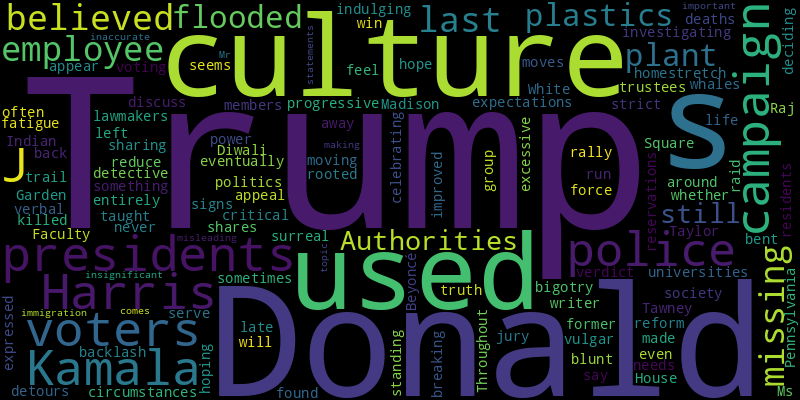
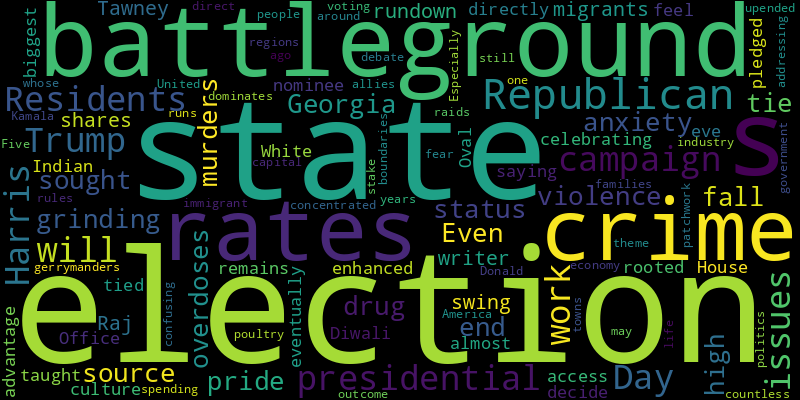
chore(bot): 👿 auto commit

diff --git a/README.md b/README.md
@@ -2,41 +2,41 @@
 Auto RSS New York Times and Generate Word Cloud
 
 ## New York Times Global News
+* Rights groups said that Reza Valizadeh, an Iranian-American journalist, was recently arrested in Iran, although the State Department did not confirm that he was the person detained.
+* The presidential candidates have expressed starkly contrasting visions for America’s role in the war, as well as the NATO alliance that serves as a shield against Russian aggression.
 * Canadian and U.S. accusations of assassination plots have drawn attention to the Sikh separatist movement, which India calls a source of organized crime.
-* As the country reels from a flood that has left at least 211 people dead, ordinary citizens have flocked to devastated areas to help clean, donate and rebuild.
+* As the country reels from a flood that has left at least 214 people dead, thousands have flocked to devastated areas to help. Anger toward public officials is growing.
 * A radio station in Poland fired its on-air talent and brought in A.I.-generated presenters. An outcry over a purported chat with a Nobel laureate quickly ended that experiment.
 * While Lebanese are united against Israel’s onslaught, some in southern towns where Hezbollah does not hold sway say they feel caught between Israel’s firepower and Hezbollah’s fighters.
 * His comments came as the Pentagon said it would send additional fighter jets and destroyers to the Middle East.
 * It appeared to be the deepest Israeli operation by sea and ground inside Lebanon during the current war.
 * A breakup of the divided and unpopular coalition well before elections set for next September could leave the country directionless at a critical time for Europe.
 * Ms. Badenoch is expected to move the party, now in the opposition, further to the right.
-* A lone voice on Mexico’s Supreme Court has proposed a way to ease the political tensions that have arisen over a judicial overhaul. But big obstacles could prevent any deal.
-* Some see the floods as an example of the effect of a changing climate that is making overwhelming downpours more common. Locals also say government warnings came too late.
 
 ![Global](./global.png)
 ## New York Times United States News
-* She is believed to be the last employee who was missing after the plastics plant flooded. Authorities are still investigating the circumstances around the deaths.
-* There are signs that society is moving away from the progressive left’s often strict expectations about how to discuss culture and politics.
-* Faculty members are used to sharing power with presidents and trustees to run universities. But some presidents and lawmakers have made moves to reduce their say.
+* Georgia’s status as a battleground state is a source of pride, but also of high anxiety at the end of a grinding election.
+* Even as violence crime rates fall, Republicans have sought to tie murders and drug overdoses to migrants. Here’s a rundown of crime rates in swing states.
 * The writer Raj Tawney shares how celebrating Diwali eventually taught him to feel more rooted in his Indian culture — and in himself.
-* In the campaign’s homestretch, whether because of fatigue or something else entirely, Donald Trump seems to be indulging in surreal, sometimes vulgar, verbal detours.
-* Kamala Harris is hoping that backlash to the bigotry at the Madison Square Garden rally will blunt Donald Trump’s appeal with a critical group of voters.
-* After a jury found that a former police detective used excessive force in the 2020 raid that killed Ms. Taylor, residents expressed both hope for police reform and reservations about the verdict.
-* Donald J. Trump has improved his standing in Pennsylvania even as late-deciding voters appear to be breaking for Kamala Harris.
-* Throughout his life, Donald J. Trump has bent the truth to serve his needs, never more so than on the campaign trail to win back the White House.
-* Beyoncé, whales, voting and immigration: For Mr. Trump, no topic is too insignificant or too important when it comes to making misleading or inaccurate statements.
+* The Republican presidential nominee has pledged enhanced access to the White House. “It will be directly into the Oval Office — and me.”
+* The biggest battleground of the presidential campaign remains tied on the eve of Election Day, with both the Trump and Harris campaigns saying they have the advantage.
+* Residents in almost 20 states will decide on issues about gerrymanders, election rules and other voting issues.
+* Five years ago, the raids upended life for immigrant families in poultry towns, but the industry still runs on their work.
+* Kamala Harris and her allies have concentrated their spending on addressing the economy. For Donald Trump, one theme dominates: fear.
+* Few have a more direct stake in the outcome of the election than residents of the capital, where countless people work in government or politics.
+* The United States it may be, but America is a patchwork of regions whose boundaries can be confusing — and up for debate. Especially around Election Day.
 
 ![US](./usnews.png)
 ## New York Times Asia News
+* When the housing market was flying high, mortgage defaults were almost nonexistent. But now the legal system is struggling to keep up with evictions.
+* The authorities warned of more volcanic activity at Mount Lewotobi Laki-laki, which has erupted dozens of times in the past few weeks.
+* The Cia-Cia language has been passed down orally for centuries. Now the tribe’s children are learning to write it in Hangul, the Korean script.
+* Plus, using generative A.I. to take a “decision holiday.”
 * Canadian and U.S. accusations of assassination plots have drawn attention to the Sikh separatist movement, which India calls a source of organized crime.
 * He worked alongside another doctor to show that a simple rehydration therapy could check the ravages of cholera and other diarrhea-inducing diseases.
 * The Biden administration said it had reached a settlement after the U.S. chipmaker voluntarily disclosed that it had shipped products to a firm linked with China’s military industrial complex.
 * He was sued and prosecuted for his actions as chairman of the Japanese power company that ran the Fukushima nuclear facility when it failed in a 2011 earthquake and tsunami.
 * Communities that suffered the worst of plant closings in recent decades are now gaining an outsize share of fresh investment and new jobs.
 * The government, its makeup in flux after the governing party lost seats this week, will soon need to make decisions that will shape Japan’s future nuclear policy.
-* A second Donald J. Trump presidency would almost certainly mark a return to an era of foreign policy decrees, untethered to any policy process, at a moment of maximum international peril.
-* Plus, Japan's passion for the World Series.
-* American agencies have assessed that China dislikes the growing partnership between Russia and North Korea. The State Department has raised the troop issue with Chinese diplomats.
-* Shohei Ohtani, the Dodgers’ superstar, drove massive interest for the World Series in Japan, where more than 15 million people watched each of the first two games.
 
 ![Asian](./asian.png)

diff --git a/archive/2024-11-03.md b/archive/2024-11-03.md
@@ -1,0 +1,42 @@
+# NewsArchive
+Auto RSS New York Times and Generate Word Cloud
+
+## New York Times Global News
+* Canadian and U.S. accusations of assassination plots have drawn attention to the Sikh separatist movement, which India calls a source of organized crime.
+* As the country reels from a flood that has left at least 211 people dead, ordinary citizens have flocked to devastated areas to help clean, donate and rebuild.
+* A radio station in Poland fired its on-air talent and brought in A.I.-generated presenters. An outcry over a purported chat with a Nobel laureate quickly ended that experiment.
+* While Lebanese are united against Israel’s onslaught, some in southern towns where Hezbollah does not hold sway say they feel caught between Israel’s firepower and Hezbollah’s fighters.
+* His comments came as the Pentagon said it would send additional fighter jets and destroyers to the Middle East.
+* It appeared to be the deepest Israeli operation by sea and ground inside Lebanon during the current war.
+* A breakup of the divided and unpopular coalition well before elections set for next September could leave the country directionless at a critical time for Europe.
+* Ms. Badenoch is expected to move the party, now in the opposition, further to the right.
+* A lone voice on Mexico’s Supreme Court has proposed a way to ease the political tensions that have arisen over a judicial overhaul. But big obstacles could prevent any deal.
+* Some see the floods as an example of the effect of a changing climate that is making overwhelming downpours more common. Locals also say government warnings came too late.
+
+![Global](./global.png)
+## New York Times United States News
+* She is believed to be the last employee who was missing after the plastics plant flooded. Authorities are still investigating the circumstances around the deaths.
+* There are signs that society is moving away from the progressive left’s often strict expectations about how to discuss culture and politics.
+* Faculty members are used to sharing power with presidents and trustees to run universities. But some presidents and lawmakers have made moves to reduce their say.
+* The writer Raj Tawney shares how celebrating Diwali eventually taught him to feel more rooted in his Indian culture — and in himself.
+* In the campaign’s homestretch, whether because of fatigue or something else entirely, Donald Trump seems to be indulging in surreal, sometimes vulgar, verbal detours.
+* Kamala Harris is hoping that backlash to the bigotry at the Madison Square Garden rally will blunt Donald Trump’s appeal with a critical group of voters.
+* After a jury found that a former police detective used excessive force in the 2020 raid that killed Ms. Taylor, residents expressed both hope for police reform and reservations about the verdict.
+* Donald J. Trump has improved his standing in Pennsylvania even as late-deciding voters appear to be breaking for Kamala Harris.
+* Throughout his life, Donald J. Trump has bent the truth to serve his needs, never more so than on the campaign trail to win back the White House.
+* Beyoncé, whales, voting and immigration: For Mr. Trump, no topic is too insignificant or too important when it comes to making misleading or inaccurate statements.
+
+![US](./usnews.png)
+## New York Times Asia News
+* Canadian and U.S. accusations of assassination plots have drawn attention to the Sikh separatist movement, which India calls a source of organized crime.
+* He worked alongside another doctor to show that a simple rehydration therapy could check the ravages of cholera and other diarrhea-inducing diseases.
+* The Biden administration said it had reached a settlement after the U.S. chipmaker voluntarily disclosed that it had shipped products to a firm linked with China’s military industrial complex.
+* He was sued and prosecuted for his actions as chairman of the Japanese power company that ran the Fukushima nuclear facility when it failed in a 2011 earthquake and tsunami.
+* Communities that suffered the worst of plant closings in recent decades are now gaining an outsize share of fresh investment and new jobs.
+* The government, its makeup in flux after the governing party lost seats this week, will soon need to make decisions that will shape Japan’s future nuclear policy.
+* A second Donald J. Trump presidency would almost certainly mark a return to an era of foreign policy decrees, untethered to any policy process, at a moment of maximum international peril.
+* Plus, Japan's passion for the World Series.
+* American agencies have assessed that China dislikes the growing partnership between Russia and North Korea. The State Department has raised the troop issue with Chinese diplomats.
+* Shohei Ohtani, the Dodgers’ superstar, drove massive interest for the World Series in Japan, where more than 15 million people watched each of the first two games.
+
+![Asian](./asian.png)
